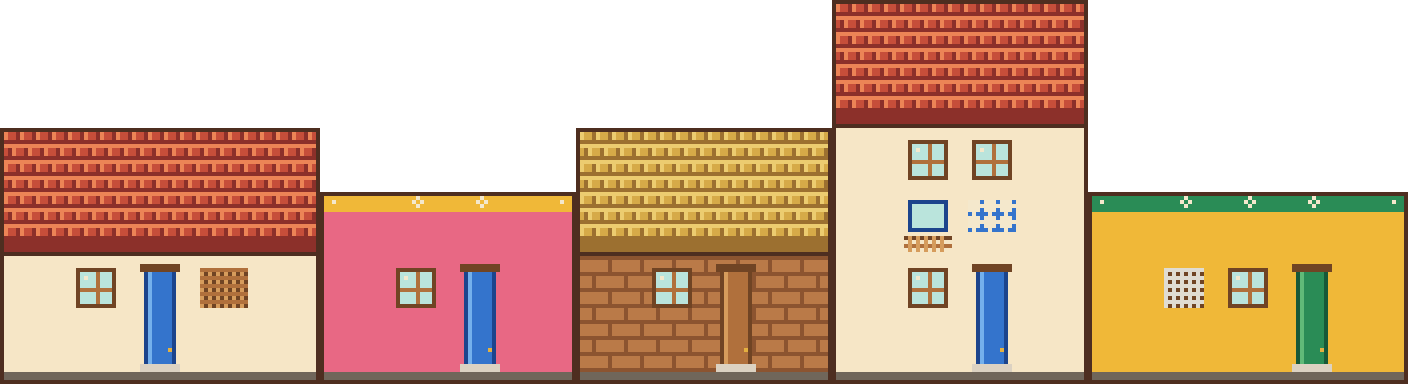
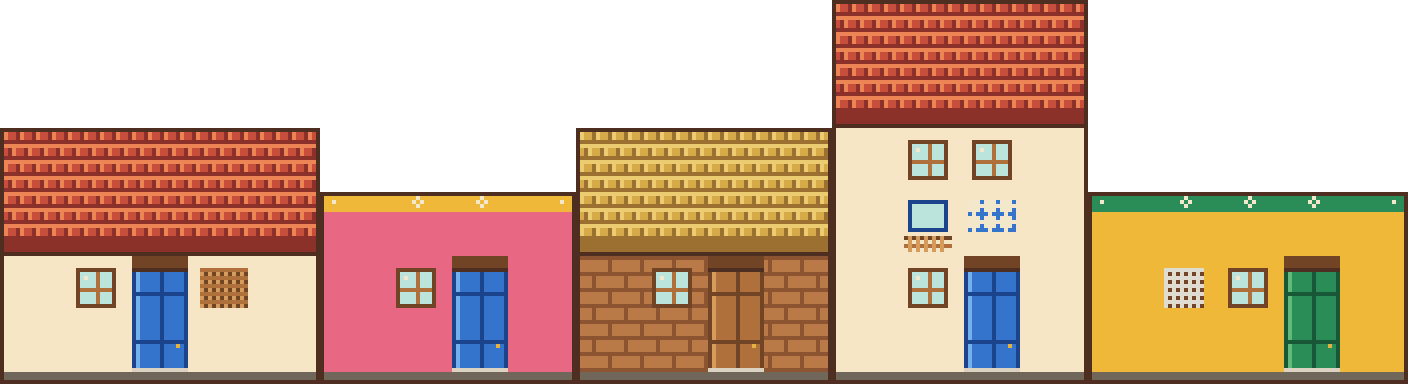
ajustes colisão com casas

diff --git a/src/entities/house.ts b/src/entities/house.ts
@@ -17,6 +17,9 @@ function pieceColor(name: string): string {
 }
 
 export class House extends GameObject {
+    private readonly spriteX: number;
+    private readonly spriteY: number;
+
     constructor(private readonly plan: HousePlan, column: number, row: number) {
         const widthInTiles = plan.rows[0]?.length ?? 0;
         if (widthInTiles === 0) throw new Error(`Casa sem peças: ${plan.name}`);
@@ -26,7 +29,13 @@ export class House extends GameObject {
         if (plan.doorColumn < 0 || plan.doorColumn >= widthInTiles || plan.doorRow < 0 || plan.doorRow + 1 >= plan.rows.length) {
             throw new Error(`Porta fora da casa: ${plan.name}`);
         }
-        super(column * nordesteTileSize, row * nordesteTileSize, widthInTiles * nordesteTileSize, plan.rows.length * nordesteTileSize, "#f0e2c4");
+        const spriteX = column * nordesteTileSize;
+        const spriteY = row * nordesteTileSize;
+        const width = widthInTiles * nordesteTileSize;
+        const spriteHeight = plan.rows.length * nordesteTileSize;
+        super(spriteX, spriteY + spriteHeight - nordesteTileSize, width, nordesteTileSize, "#f0e2c4");
+        this.spriteX = spriteX;
+        this.spriteY = spriteY;
     }
 
     getName(): string {
@@ -38,10 +47,9 @@ export class House extends GameObject {
     }
 
     doorBounds(): { x: number; y: number; width: number; height: number } {
-        const position = this.getPosition();
         return {
-            x: position.x + this.plan.doorColumn * nordesteTileSize,
-            y: position.y + this.plan.doorRow * nordesteTileSize,
+            x: this.spriteX + this.plan.doorColumn * nordesteTileSize,
+            y: this.spriteY + this.plan.doorRow * nordesteTileSize,
             width: nordesteTileSize,
             height: nordesteTileSize * 2,
         };
@@ -64,12 +72,11 @@ export class House extends GameObject {
     }
 
     render(ctx: CanvasRenderingContext2D, highlighted = false): void {
-        const origin = this.getPosition();
         this.plan.rows.forEach((line, row) => {
             line.forEach((name, column) => {
                 const cell = kitCell(name);
-                const x = origin.x + column * nordesteTileSize;
-                const y = origin.y + row * nordesteTileSize;
+                const x = this.spriteX + column * nordesteTileSize;
+                const y = this.spriteY + row * nordesteTileSize;
                 const drawn = houseSheet.draw(
                     ctx,
                     cell.column * nordesteTileSize,
